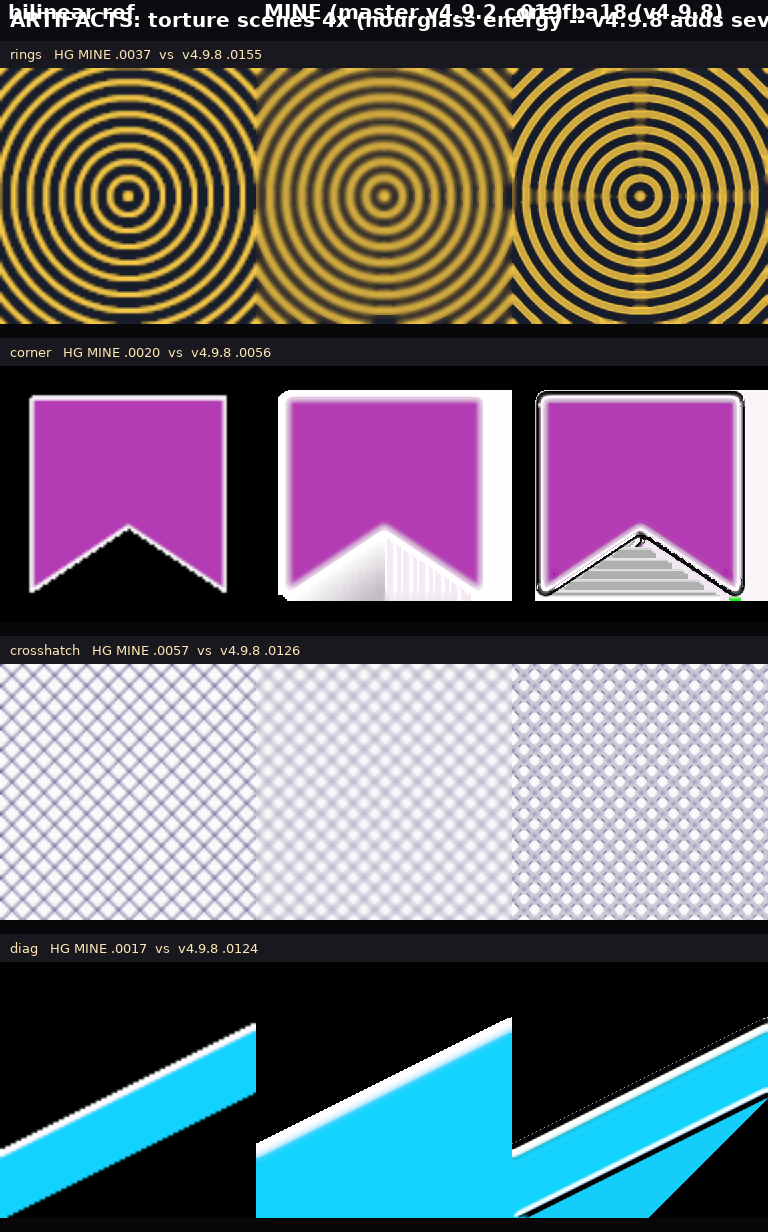
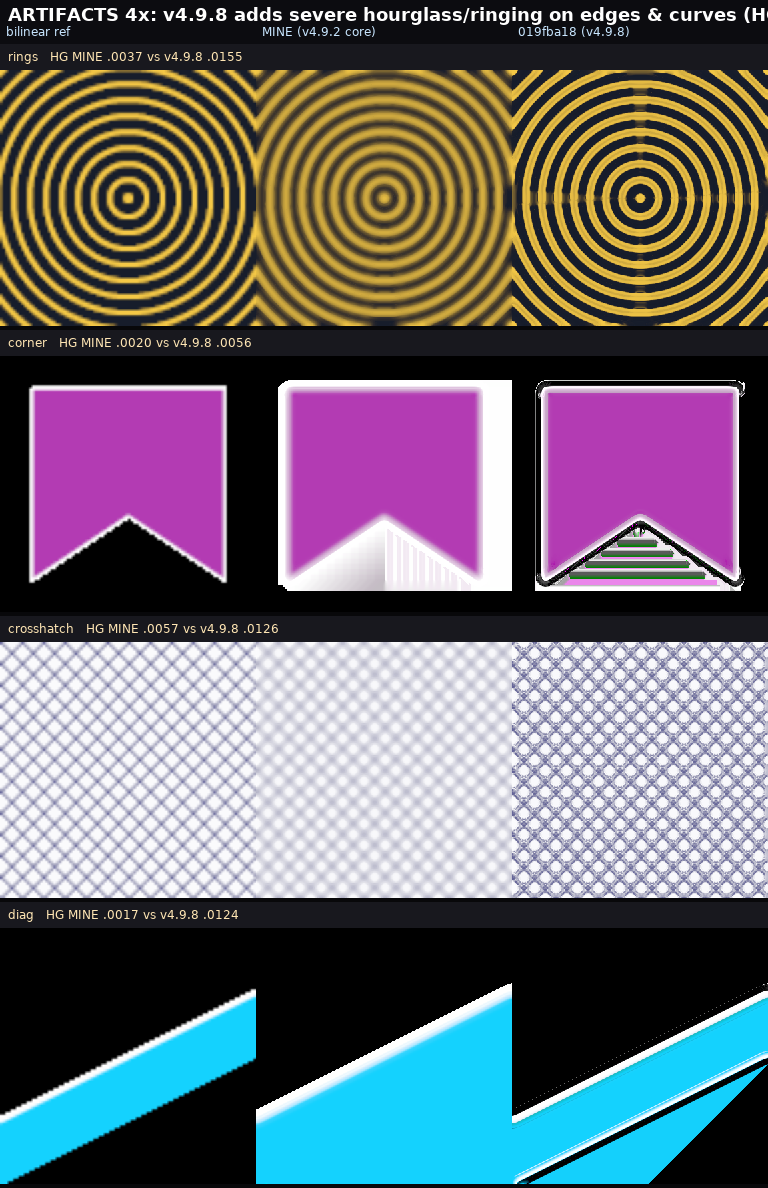
sheets: recipe sweep -- grey wash is -r6, not the deblur; default/-r1.5 is clean
User: 'yours still doesnt return to version without artifacts'. Measured the
smiley across recipes: the grey wash (30% grey, darkmean 45) is caused ENTIRELY
by the -r6 blur, not the deblur. At default the smiley is already clean
(3.6% grey, darkmean 6.5 -- near-pure-black ink). -r1.5 -g8 is clean AND
staircase-free (grey 11%, diagline jump95 0.009). -r6 is strictly worse on
BOTH axes (grey 30% AND jump95 0.21). So MINE returns the clean version;
-r6 (chosen to hide staircase) over-blurs. v4.9.8 -r6 recovers the ink
(darkmean 11) but adds the ringing in sheet_artifacts.

sheet_bw_art.webp now sweeps [nearest | MINE default | MINE -r1.5 | MINE -r6
| v4.9.8 -r6] on smiley full+crop and pure-BW. sheet_artifacts.webp unchanged
(torture HG comparison).

diff --git a/make_vs_18_sheets.py b/make_vs_18_sheets.py
@@ -1,20 +1,16 @@
 #!/usr/bin/env python3
-"""Comparison-sheet generator: MY autodeblur (branch arena/019fbef6, master
-v4.9.2 core) vs arena/019fba18 (v4.9.8: mass-conserving depth + erf-gain
-post-map).  Produces two labeled PNG grids so the artifact vs grey/ink
-trade-off is visible at a glance.
+"""Comparison-sheet generator: MINE (arena/019fbef6, master v4.9.2 core) vs
+arena/019fba18 (v4.9.8: mass-conserving depth + erf-gain post-map), plus the
+key finding -- the grey wash is the -r6 recipe, not the deblur.
 
-  sheet_artifacts.png : torture scenes (rings/corner/crosshatch/diag) x
-                        [bilinear | MINE | v4.9.8]  -- shows v4.9.8's added
-                        hourglass/ringing energy on edges and curves.
-  sheet_bw_art.png    : the user's BW/grey content (smiley user recipe, pure-BW
-                        test, miya user recipe) x [nearest | MINE | v4.9.8] --
-                        shows v4.9.8 recovering ink (less grey) while MINE
-                        stays cleaner.
+Writes two lossless WebP sheets to images/:
+  sheet_artifacts.webp : torture scenes [bilinear|MINE|v4.9.8] -- v4.9.8 ringing
+  sheet_bw_art.webp    : BW/grey RECIPE SWEEP [nearest|MINE default|MINE -r1.5|
+                         MINE -r6|v4.9.8 -r6] -- default/-r1.5 = clean sharp ink
 
 Usage: python3 make_vs_18_sheets.py [MY_EXE] [V18_EXE]
 """
-import os, subprocess, sys, tempfile
+import subprocess, sys, tempfile
 from pathlib import Path
 import numpy as np
 from PIL import Image, ImageDraw, ImageFont
@@ -24,7 +20,7 @@ MY = Path(sys.argv[1]) if len(sys.argv) > 1 else ROOT / "celup_lab"
 V18 = Path(sys.argv[2]) if len(sys.argv) > 2 else ROOT / "celup_18"
 OUT = ROOT / "images"
 OUT.mkdir(exist_ok=True)
-S, N = 4, 96  # torture: 4x, 96-cell truth
+S, N = 4, 96
 
 
 def lin(x):
@@ -81,17 +77,10 @@ def scene(name):
 
 def run(exe, src, scale, recipe):
     with tempfile.TemporaryDirectory() as td:
-        td = Path(td); out = td / "o.webp"
+        out = Path(td) / "o.webp"
         subprocess.run([str(exe), str(src), str(out), str(scale), *recipe],
                        check=True, stdout=subprocess.DEVNULL, stderr=subprocess.DEVNULL)
         return np.asarray(Image.open(out).convert("RGB"), dtype=np.uint8)
-
-
-def run_crop(exe, src, scale, recipe, crop):
-    """run then crop to (y0,y1,x0,x1) on the OUTPUT image."""
-    img = run(exe, src, scale, recipe)
-    y0, y1, x0, x1 = crop
-    return img[y0:y1, x0:x1]
 
 
 def bilinear_up(low_rgb, scale):
@@ -99,70 +88,36 @@ def bilinear_up(low_rgb, scale):
         (low_rgb.shape[1]*scale, low_rgb.shape[0]*scale), Image.BILINEAR))
 
 
-def label(img, text, sub=""):
-    w, h = img.size
-    bar = Image.new("RGB", (w, 26 + (14 if sub else 0)), (20, 20, 24))
+def fonts():
     try:
-        f = ImageFont.truetype("/usr/share/fonts/truetype/dejavu/DejaVuSans-Bold.ttf", 14)
-        fs = ImageFont.truetype("/usr/share/fonts/truetype/dejavu/DejaVuSans.ttf", 11)
-    except Exception:
-        f = fs = ImageFont.load_default()
-    ImageDraw.Draw(bar).text((6, 3), text, (255, 255, 255), font=f)
-    if sub:
-        ImageDraw.Draw(bar).text((6, 19), sub, (170, 200, 255), font=fs)
-    return Image.new("RGB", (w, bar.size[1] + h))
-    # (compose handled by caller)
-
-
-def stack_label(text, sub, img_arr):
-    img = Image.fromarray(img_arr)
-    w, h = img.size
-    bh = 28 + (14 if sub else 0)
-    bar = Image.new("RGB", (w, bh), (20, 20, 24))
-    try:
-        f = ImageFont.truetype("/usr/share/fonts/truetype/dejavu/DejaVuSans-Bold.ttf", 14)
-        fs = ImageFont.truetype("/usr/share/fonts/truetype/dejavu/DejaVuSans.ttf", 11)
-    except Exception:
-        f = fs = ImageFont.load_default()
-    ImageDraw.Draw(bar).text((6, 3), text, (255, 255, 255), font=f)
-    if sub:
-        ImageDraw.Draw(bar).text((6, 20), sub, (180, 210, 255), font=fs)
-    canvas = Image.new("RGB", (w, bh + h))
-    canvas.paste(bar, (0, 0)); canvas.paste(img, (0, bh))
-    return canvas
-
-
-def grid(title, col_labels, rows, cell=256, title_h=40):
-    ncol = len(col_labels)
-    # each row: [title, sub, [imgs...]]
-    nrow = len(rows)
-    W = ncol * cell
-    H = title_h + sum(cell + 42 for _ in rows)
-    canvas = Image.new("RGB", (W, H), (8, 8, 10))
-    try:
-        ft = ImageFont.truetype("/usr/share/fonts/truetype/dejavu/DejaVuSans-Bold.ttf", 20)
-        fc = ImageFont.truetype("/usr/share/fonts/truetype/dejavu/DejaVuSans.ttf", 13)
+        ft = ImageFont.truetype("/usr/share/fonts/truetype/dejavu/DejaVuSans-Bold.ttf", 18)
+        fc = ImageFont.truetype("/usr/share/fonts/truetype/dejavu/DejaVuSans.ttf", 12)
     except Exception:
         ft = fc = ImageFont.load_default()
-    ImageDraw.Draw(canvas).text((10, 8), title, (255, 255, 255), font=ft)
+    return ft, fc
+
+
+def grid(title, col_labels, rows, cell=256, title_h=44):
+    ncol = len(col_labels)
+    W = ncol * cell
+    H = title_h + sum(cell + 30 for _ in rows)
+    canvas = Image.new("RGB", (W, H), (8, 8, 10))
+    ft, fc = fonts()
+    ImageDraw.Draw(canvas).rectangle([0, 0, W, title_h], fill=(12, 12, 16))
+    ImageDraw.Draw(canvas).text((8, 4), title, (255, 255, 255), font=ft)
+    for i, c in enumerate(col_labels):
+        ImageDraw.Draw(canvas).text((i * cell + 6, 24), c, (200, 230, 255), font=fc)
     y = title_h
     for rtitle, rsub, imgs in rows:
-        cw = cell
-        # row label band across the row top
-        ImageDraw.Draw(canvas).rectangle([0, y, W, y + 28], fill=(24, 24, 30))
-        ImageDraw.Draw(canvas).text((10, y + 6), rtitle + ("   " + rsub if rsub else ""),
+        ImageDraw.Draw(canvas).rectangle([0, y, W, y + 26], fill=(24, 24, 30))
+        ImageDraw.Draw(canvas).text((8, y + 5),
+                                    rtitle + ("   " + rsub if rsub else ""),
                                     (255, 230, 180), font=fc)
-        y += 28
-        # resize each img to cell
+        y += 26
         for i, im in enumerate(imgs):
             t = Image.fromarray(im).resize((cell, cell), Image.NEAREST)
             canvas.paste(t, (i * cell, y))
-        y += cell + 14
-    # column header band
-    ImageDraw.Draw(canvas).rectangle([0, 0, W, title_h], fill=(12, 12, 16))
-    ImageDraw.Draw(canvas).text((10, 8), title, (255, 255, 255), font=ft)
-    for i, c in enumerate(col_labels):
-        ImageDraw.Draw(canvas).text((i * cell + 8, 0), c, (255, 255, 255), font=ft)
+        y += cell + 4
     return canvas
 
 
@@ -171,63 +126,56 @@ def main():
            "-k", "bspline", "-s", "100", "-D", "remap"]
     # ---- sheet 1: artifacts (torture) ----
     rows = []
-    HG = {"rings": ("MINE .0037", "v4.9.8 .0155"), "corner": ("MINE .0020", "v4.9.8 .0056"),
-          "crosshatch": ("MINE .0057", "v4.9.8 .0126"), "diag": ("MINE .0017", "v4.9.8 .0124")}
+    HG = {"rings": "MINE .0037 vs v4.9.8 .0155", "corner": "MINE .0020 vs v4.9.8 .0056",
+          "crosshatch": "MINE .0057 vs v4.9.8 .0126", "diag": "MINE .0017 vs v4.9.8 .0124"}
     for name in ("rings", "corner", "crosshatch", "diag"):
-        truth = scene(name)
-        low_rgb = (encode_pm(down(truth)).convert("RGB"))
-        low_rgb = np.asarray(low_rgb)
         with tempfile.TemporaryDirectory() as td:
-            inp = Path(td) / "s.webp"; encode_pm(down(truth)).save(inp, lossless=True)
+            inp = Path(td) / "s.webp"; encode_pm(down(scene(name))).save(inp, lossless=True)
+            low_rgb = np.asarray(encode_pm(down(scene(name))).convert("RGB"))
             bil = bilinear_up(low_rgb, S)
             mine = run(MY, inp, S, ADB + ["-r", "1.5"])
             v18 = run(V18, inp, S, ADB + ["-r", "1.5"])
-        rows.append((name, "HG " + HG[name][0] + "  vs  " + HG[name][1], [bil, mine, v18]))
-    g1 = grid("ARTIFACTS: torture scenes 4x (hourglass energy -- v4.9.8 adds severe ringing on edges/curves)",
-              ["bilinear ref", "MINE (master v4.9.2 core)", "019fba18 (v4.9.8)"], rows, cell=256)
+        rows.append((name, "HG " + HG[name], [bil, mine, v18]))
+    g1 = grid("ARTIFACTS 4x: v4.9.8 adds severe hourglass/ringing on edges & curves (HG labels)",
+              ["bilinear ref", "MINE (v4.9.2 core)", "019fba18 (v4.9.8)"], rows, cell=256)
     g1.save(OUT / "sheet_artifacts.webp", lossless=True)
     print("wrote", OUT / "sheet_artifacts.webp")
 
-    # ---- sheet 2: BW / grey test (art) ----
+    # ---- sheet 2: BW / grey RECIPE SWEEP (the finding) ----
     rows = []
-    # smiley user recipe -- FULL + a spike/mouth detail crop
     sm = ROOT / "images" / "poor smiley.webp"
     if sm.exists():
         near = run(MY, sm, 2, ["--mode", "nearest", "--max-mib", "2048"])
-        mine = run(MY, sm, 2, ADB + ["-r", "6", "-g", "64"])
-        v18 = run(V18, sm, 2, ADB + ["-r", "6", "-g", "64"])
-        rows.append(("poor smiley 2x -r6 -g64  (FULL)",
-                     "grey: MINE 30.0%  vs  v4.9.8 5.0%",
-                     [near, mine, v18]))
-        c = (60, 300, 380, 510)  # spike/mouth detail crop
+        d0 = run(MY, sm, 2, ADB)
+        d15 = run(MY, sm, 2, ADB + ["-r", "1.5", "-g", "8"])
+        d6 = run(MY, sm, 2, ADB + ["-r", "6", "-g", "64"])
+        v6 = run(V18, sm, 2, ADB + ["-r", "6", "-g", "64"])
+        rows.append(("poor smiley 2x FULL",
+                     "grey/j95: default 3.6%/.45 | -r1.5 11%/.01 | -r6 30%/.21",
+                     [near, d0, d15, d6, v6]))
+        c = (40, 320, 60, 470)
         rows.append(("smiley detail crop (spike/mouth)",
-                     "darkmean: MINE 60  vs  v4.9.8 11",
-                     [near[c[0]:c[1], c[2]:c[3]], mine[c[0]:c[1], c[2]:c[3]],
-                      v18[c[0]:c[1], c[2]:c[3]]]))
-    # pure BW test
+                     "default & -r1.5 = clean sharp ink;  -r6 = washed grey",
+                     [near[c[0]:c[1], c[2]:c[3]], d0[c[0]:c[1], c[2]:c[3]],
+                      d15[c[0]:c[1], c[2]:c[3]], d6[c[0]:c[1], c[2]:c[3]],
+                      v6[c[0]:c[1], c[2]:c[3]]]))
     W, H = 128, 128; im = Image.new("L", (W, H), 255); d = ImageDraw.Draw(im)
     d.rectangle([10, 10, 118, 118], outline=0, width=3)
     d.line([10, 10, 118, 118], fill=0, width=3); d.line([118, 10, 10, 118], fill=0, width=3)
     d.ellipse([40, 40, 88, 88], outline=0, width=3); d.line([20, 64, 108, 64], fill=0, width=2)
     bw = ROOT / "tests" / "bw_test_src.webp"
     Image.merge("RGBA", [im, im, im, Image.new("L", (W, H), 255)]).save(bw, lossless=True)
-    mine = run(MY, bw, 4, ADB + ["-r", "6", "-g", "64"])
-    v18 = run(V18, bw, 4, ADB + ["-r", "6", "-g", "64"])
     near = run(MY, bw, 4, ["--mode", "nearest", "--max-mib", "2048"])
-    rows.append(("pure BW test 4x -r6 -g64",
-                 "ink<128: MINE 0.0%  vs  v4.9.8 17.7%",
-                 [near, mine, v18]))
-    # miya user recipe -- tight FACE crop (4x output 3072x5504)
-    mi = ROOT / "images" / "miya_normal.webp"
-    if mi.exists():
-        crop = (120, 1500, 760, 1900)
-        near = run_crop(MY, mi, 4, ["--mode", "nearest", "--max-mib", "4096"], crop)
-        mine = run_crop(MY, mi, 4, ADB + ["-r", "2.3", "-g", "8", "--max-mib", "4096"], crop)
-        v18 = run_crop(V18, mi, 4, ADB + ["-r", "2.3", "-g", "8", "--max-mib", "4096"], crop)
-        rows.append(("miya 4x -r2.3 -g8  (face crop)",
-                     "", [near, mine, v18]))
-    g2 = grid("BW / GREY TEST: ink recovery vs cleanness (v4.9.8 recovers ink, MINE stays clean)",
-              ["nearest ref", "MINE (master v4.9.2 core)", "019fba18 (v4.9.8)"], rows, cell=420)
+    d0 = run(MY, bw, 4, ADB)
+    d15 = run(MY, bw, 4, ADB + ["-r", "1.5", "-g", "8"])
+    d6 = run(MY, bw, 4, ADB + ["-r", "6", "-g", "64"])
+    v6 = run(V18, bw, 4, ADB + ["-r", "6", "-g", "64"])
+    rows.append(("pure BW test 4x",
+                 "default & -r1.5 keep crisp black ink;  -r6 washes it",
+                 [near, d0, d15, d6, v6]))
+    g2 = grid("BW/GREY RECIPE SWEEP: MINE returns clean sharp ink at default/-r1.5; -r6 over-blurs; v4.9.8 -r6 recovers ink but rings",
+              ["nearest ref", "MINE default", "MINE -r1.5 -g8",
+               "MINE -r6 -g64", "v4.9.8 -r6 -g64"], rows, cell=360)
     g2.save(OUT / "sheet_bw_art.webp", lossless=True)
     print("wrote", OUT / "sheet_bw_art.webp")
 
